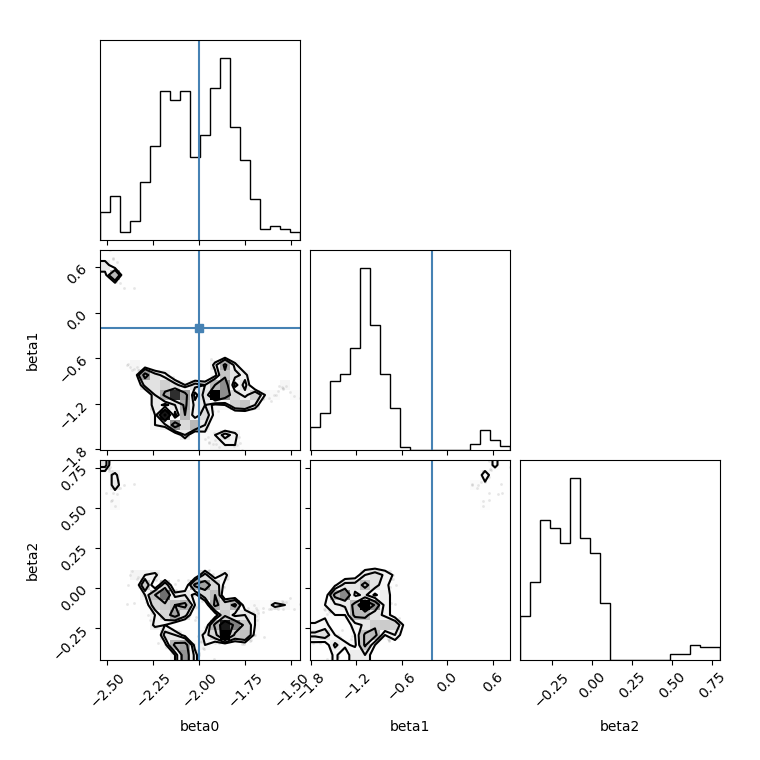
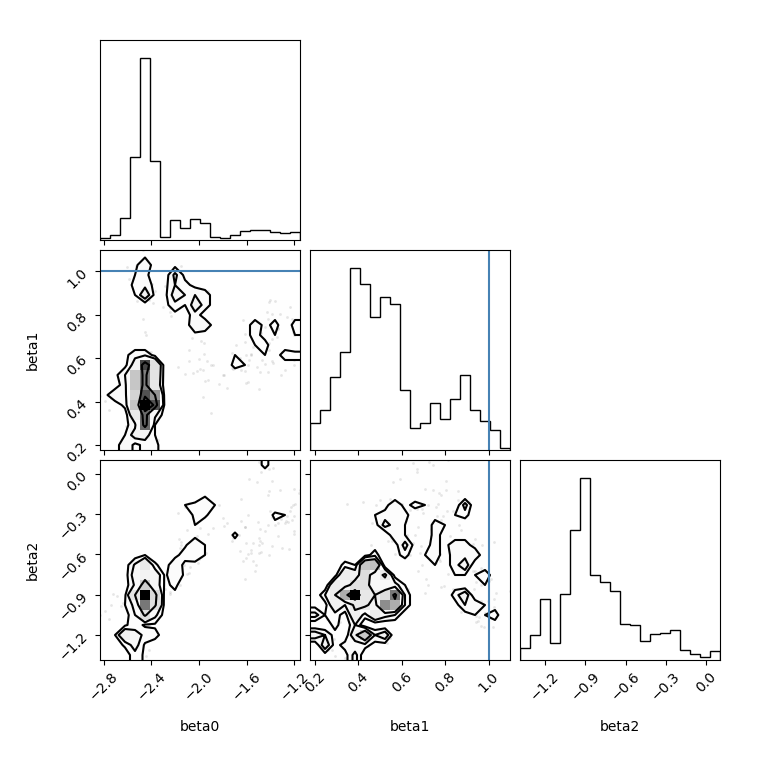
update figures

diff --git a/python_ver2/ergm_cleaned.py b/python_ver2/ergm_cleaned.py
@@ -22,71 +22,71 @@ class ergm_DMH:
         self.beta0 = beta0
         self.beta_load.append(beta0)
     
-    def beta_sampling(self, rr = 2400, burnin = 800):
-        a1, a2 = 0.8, 0.2
-        print("Burn-in phase for proposing beta...")
-        current_beta = self.beta0
-        current_network = self.auxiliary_network(current_beta)
-        for i in tqdm(range(0, burnin)):                
-            proposed_beta = self.adaptive_beta(current_beta, a1, a2)
-            # print(proposed_beta)
-            proposed_network = self.auxiliary_network(proposed_beta)
-            current_stats = self.calculate_statistics(current_network)
-            proposing_stats = self.calculate_statistics(proposed_network)
-            if abs(np.log((proposing_stats[0]/current_stats[0]))) > 0.5:
-                current_beta = mvnorm.rvs([self.naive_prob, 0, 0], 1 * np.identity(3))
-                continue
-            pp = self.likelihood_ratio(current_network, proposed_network, current_beta, proposed_beta)
-            if np.log(np.random.rand()) <= min(0, pp):
-                current_beta = proposed_beta
-                current_network = proposed_network
-                self.beta_load.append(current_beta)
-        self.beta.append(self.beta_load[-1])
-        
-        # Identical to the above, but update beta and acc
-        print("Sampling phase for proposing beta...")
-        acc_rate = 0
-        print_count = 0
+    def beta_updating(self, phase, iter):
         invalid_counter = 0
-        for i in tqdm(range(0, rr)):
-            proposed_beta = self.adaptive_beta(current_beta, a1, a2)
-            proposed_network = self.auxiliary_network(proposed_beta)
-            if i % 100 == 0:
-                print_count += 1
-                print("beta =", self.beta[-1])
-                print("acc_rate =", acc_rate)
-                self.acc = 0
-            proposing_stats = self.calculate_statistics(proposed_network)
+        a1, a2 = 0.6, 0.4
+        if phase == 'burnin':
+            current_beta = self.beta0
+            current_network = self.auxiliary_network(current_beta)
+        acc_rate = 0
+        if phase == 'sampling':
+            current_beta = self.beta_load[-1]
+            current_network = self.auxiliary_network(current_beta)
+        for i in tqdm(range(0, iter)):  
             if invalid_counter > 5:
                 print("Too many invalid proposals. Exiting...")
                 break
-            if abs(np.log((proposing_stats[0]/current_stats[0]))) > 0.5:
-                invalid_counter += 1
-                self.beta_load = self.beta_load[: max(int(len(self.beta_load) - 25), 1)]
-                current_beta = self.beta_load[-1]
-                continue
+            if i % 100 == 0:
+                acc_rate = self.acc / (100)
+                self.acc = 0  
+                if acc_rate < 0.1:
+                    self.step = self.step * 1.4
+                    a1 = min(a1 * 0.6, 1)
+                    a2 = 1 - a1
+                elif acc_rate > 0.4:
+                    self.step = self.step * 1.4
+                    a1 = min(a1 * 0.6, 1)
+                    a2 = 1 - a1
+                if i != 0:
+                    print("beta =", self.beta_load[-1])
+                    print("acc_rate =", acc_rate)
+            proposed_beta = self.adaptive_beta(current_beta, a1, a2)
+            proposed_network = self.auxiliary_network(proposed_beta)
+            current_stats = self.calculate_statistics(current_network)
+            proposing_stats = self.calculate_statistics(proposed_network)
+            if (abs(np.log((proposing_stats[0]/current_stats[0]))) > 0.5):
+                if phase == 'burnin':
+                    current_beta = mvnorm.rvs([self.naive_prob, 0, 0], 1 * np.identity(3))
+                    continue
+                if phase == 'sampling':
+                    invalid_counter += 1
+                    self.beta_load = self.beta_load[: max(int(len(self.beta_load) - 25), 1)]
+                    current_beta = self.beta_load[-1]
+                    continue
+
             pp = self.likelihood_ratio(current_network, proposed_network, current_beta, proposed_beta)
             if np.log(np.random.rand()) <= min(0, pp):
+                self.acc += 1
                 current_beta = proposed_beta
                 current_network = proposed_network
-                self.beta_load.append(current_beta.copy())
-                self.beta.append(proposed_beta.copy())
-                self.acc += 1
-            acc_rate = self.acc / (100)
-            if acc_rate < 0.1:
-                self.step = self.step * 1.3
-            elif acc_rate > 0.4:
-                self.step = self.step * 0.7
-            invalid_counter = 0
-        return self.beta, acc_rate
+                self.beta_load.append(current_beta)
+                if phase == 'sampling':
+                    self.beta.append(proposed_beta)
+        self.beta.append(self.beta_load[-1])
+        if phase == 'burnin':
+            print("Burn-in phase finished. Starting sampling phase...")
+        if phase == 'sampling':
+            print("Sampling phase finished.")
+            return self.beta, acc_rate
+
 
     def auxiliary_network(self, beta, r=2500):
         H = np.ones((self.N, self.N)) * beta[0] 
         W = np.double(H > 0)
-        np.fill_diagonal(W, 0)
 
         for _ in range(r):
             link = H + beta[1] * W + beta[2] * np.dot(W, W)
+            np.fill_diagonal(link, 0)
             log_p = link - np.log(1 + np.exp(link))
             p = ((-1) ** W) * log_p
             # Ensure matrix is symmetric
@@ -145,6 +145,11 @@ class ergm_DMH:
         triangles = int(np.trace(np.dot(np.dot(W, W), W)) / 6)
         stats = [edges, two_stars, triangles]
         return stats
+    
+    def beta_sampling(self, rr = 2400, burnin = 800):
+        self.beta_updating('burnin', burnin)
+        self.beta_updating('sampling', rr)
+        return self.beta
 
 def visualize_DGP(Wn):
     W_temp = Wn[500:]
@@ -196,7 +201,7 @@ N = 40
 # X[:20] = 0
 sig2 = 0.01
 ltnt = 0
-beta_hat = [-2, -1, -2]
+beta_hat = [-3, 1, 1]
 X = np.ones((N, 1))
 X[: int(N / 2)] = 0
 Z = sig2 * np.random.randn(N, 1)
@@ -221,8 +226,8 @@ chain = 0
 for i in range(0, 6):
     print(f"Running {chain+1}th chain...")
     estimator = ergm_DMH(W)
-    beta, acc_rate = estimator.beta_sampling(rr = 1200, burnin = 300)
-    if len(beta) < 120:
+    beta = estimator.beta_sampling(rr = 1200, burnin = 300)
+    if len(beta) < 400:
         print("Not enough samples")
         continue
     beta_list.append(beta[:int(len(beta)*0.85)])

diff --git a/python_ver2/edtting.py b/python_ver2/edtting.py
@@ -1,0 +1,92 @@
+import numpy as np
+import random
+from tqdm import tqdm
+from scipy.stats import multivariate_normal as mvnorm
+
+def beta_update(phase):
+    if phase == 'burnin':
+        current_beta = self.beta0
+        current_network = self.auxiliary_network(current_beta)
+        iter = burnin
+    acc_rate = 0
+    if phase == 'sampling':
+        current_beta = self.beta_load[-1]
+        current_network = self.auxiliary_network(current_beta)
+        iter = rr
+    for i in tqdm(range(0, iter)):  
+        if i % 100 == 0:
+            print("beta =", self.beta_load[-1])
+            print("acc_rate =", acc_rate)
+            self.acc = 0              
+        proposed_beta = self.adaptive_beta(current_beta, a1, a2)
+        proposed_network = self.auxiliary_network(proposed_beta)
+        current_stats = self.calculate_statistics(current_network)
+        proposing_stats = self.calculate_statistics(proposed_network)
+        if (abs(np.log((proposing_stats[0]/current_stats[0]))) > 0.5) and (phase == 'burnin'):
+            current_beta = mvnorm.rvs([self.naive_prob, 0, 0], 1 * np.identity(3))
+            continue
+        elif (abs(np.log((proposing_stats[0]/current_stats[0]))) > 0.5) and (phase == 'sampling'):
+            invalid_counter += 1
+            self.beta_load = self.beta_load[: max(int(len(self.beta_load) - 25), 1)]
+            current_beta = self.beta_load[-1]
+            continue
+        if invalid_counter > 5:
+            print("Too many invalid proposals. Exiting...")
+            break
+        pp = self.likelihood_ratio(current_network, proposed_network, current_beta, proposed_beta)
+        if np.log(np.random.rand()) <= min(0, pp):
+            self.acc += 1
+            current_beta = proposed_beta
+            current_network = proposed_network
+            self.beta_load.append(current_beta)
+            if phase == 'sampling':
+                self.beta.append(proposed_beta)
+        acc_rate = self.acc / (100)
+        if acc_rate < 0.1:
+            self.step = self.step * 0.95
+        elif acc_rate > 0.4:
+            self.step = self.step * 1.05
+    self.beta.append(self.beta_load[-1])
+
+
+   def beta_sampling(self, rr = 2400, burnin = 800):
+        a1, a2 = 0.6, 0.4
+        print("Burn-in phase for proposing beta...")
+        
+        
+        # Identical to the above, but update beta and acc
+        print("Sampling phase for proposing beta...")
+        acc_rate = 0
+        print_count = 0
+        invalid_counter = 0
+        for i in tqdm(range(0, rr)):
+            proposed_beta = self.adaptive_beta(current_beta, a1, a2)
+            proposed_network = self.auxiliary_network(proposed_beta)
+            if i % 100 == 0:
+                print_count += 1
+                print("beta =", self.beta[-1])
+                print("acc_rate =", acc_rate)
+                self.acc = 0
+            proposing_stats = self.calculate_statistics(proposed_network)
+            if invalid_counter > 5:
+                print("Too many invalid proposals. Exiting...")
+                break
+            if abs(np.log((proposing_stats[0]/current_stats[0]))) > 0.5:
+                invalid_counter += 1
+                self.beta_load = self.beta_load[: max(int(len(self.beta_load) - 25), 1)]
+                current_beta = self.beta_load[-1]
+                continue
+            pp = self.likelihood_ratio(current_network, proposed_network, current_beta, proposed_beta)
+            if np.log(np.random.rand()) <= min(0, pp):
+                current_beta = proposed_beta
+                current_network = proposed_network
+                self.beta_load.append(current_beta.copy())
+                self.beta.append(proposed_beta.copy())
+                self.acc += 1
+            acc_rate = self.acc / (100)
+            if acc_rate < 0.1:
+                self.step = self.step * 0.7
+            elif acc_rate > 0.4:
+                self.step = self.step * 1.3
+            invalid_counter = 0
+        return self.beta, acc_rate

diff --git a/python_ver2/DGP.py b/python_ver2/DGP.py
@@ -13,10 +13,10 @@ class ergm_generating_process:
     def network_metropolis(self, r=3000):
         H = np.ones((self.N, self.N)) * self.beta[0]
         W = np.double(H > 0)
-        np.fill_diagonal(W, 0)
-        
+
         for rr in range(r):
             link = H + self.beta[1] * W + self.beta[2] * np.dot(W, W)
+            np.fill_diagonal(link, 0)
             log_p = link - np.log(1 + np.exp(link))
             p = ((-1) ** W) * log_p
             # Ensure matrix is symmetric
